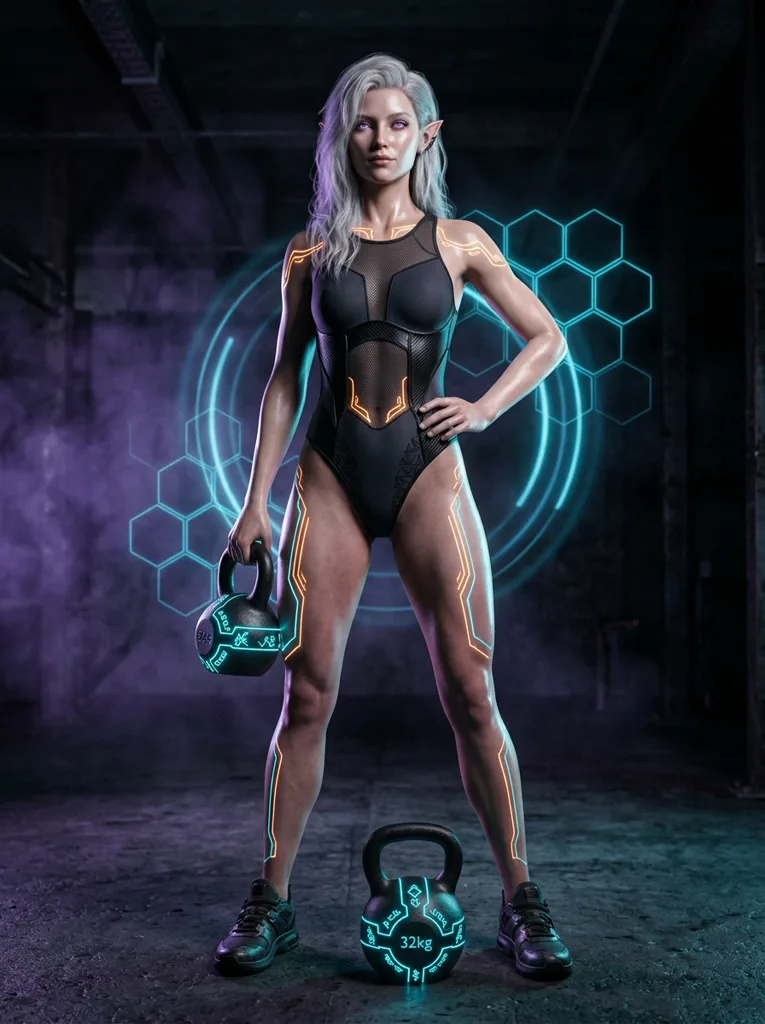
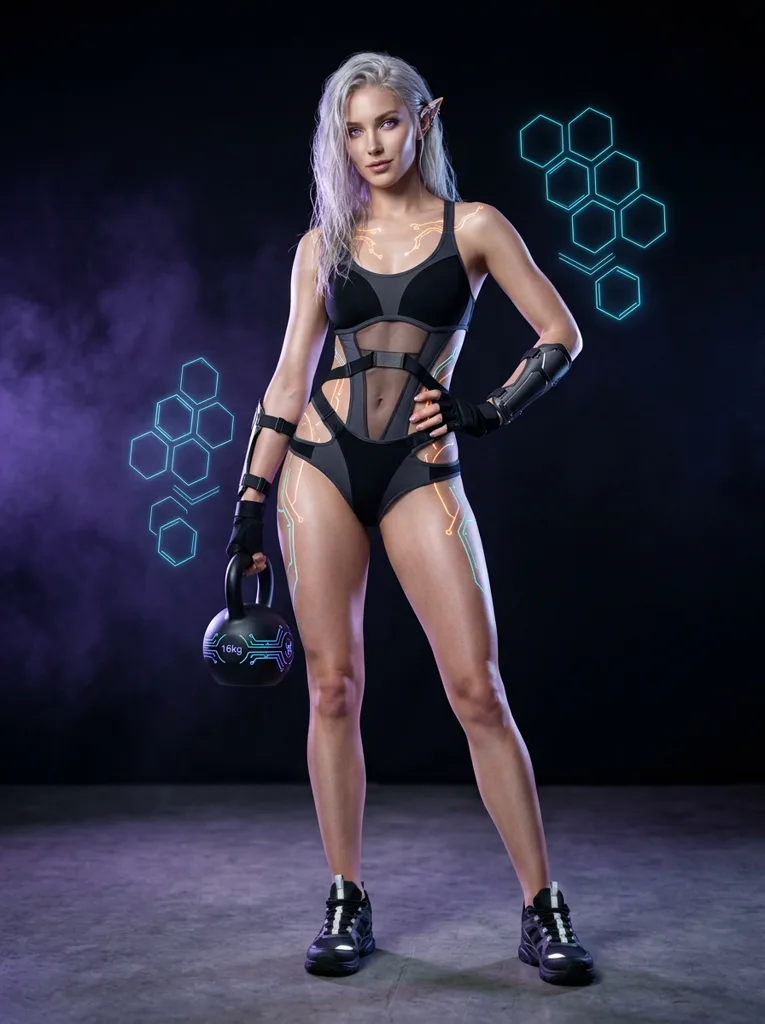
fix(trainers): use architectural cutout portrait for Lyra Vael
- Switch assets/trainers/elf-mage.webp to lyra_fullbody_cutout render
- Update docs/trainers/index.md and docs/trainers/lyra.md to feature the cutout render as Plate 01 primary portrait

diff --git a/docs/trainers/lyra.md b/docs/trainers/lyra.md
@@ -31,17 +31,27 @@ Lyra channels mana through structural alignment, deep joint decompression, slow-
 
 > 🔍 _Click any editorial plate or exercise frame below to inspect the full uncompressed render._
 
-### Plate 01: Primary Editorial Portrait
+### Plate 01: Architectural Cutout Stance (Primary Editorial Portrait)
 
-[![Lyra Fullbody Portrait](/trainers/lyra-fullbody-portrait.jpg)](/trainers/lyra-fullbody-portrait.jpg)
+[![Lyra Fullbody Cutout](/trainers/lyra-fullbody-cutout.jpg)](/trainers/lyra-fullbody-cutout.jpg)
 
 - **Lens Spec**: 50mm f/1.8 · Volumetric Cyan & Violet Rim Lighting
+- **Canvas**: 3:4 Vertical Studio Portrait
+- **Description**: Sculpted athletic form in architectural cutouts and matte carbon-fiber bodysuit, traced with amber and cyan arcane circuitry beside a mana-inlaid kettlebell.
+
+---
+
+### Plate 02: Full-Mesh Obsidian Stance (Archive Mesh Variant)
+
+[![Lyra Fullbody Mesh](/trainers/lyra-fullbody-portrait.jpg)](/trainers/lyra-fullbody-portrait.jpg)
+
+- **Lens Spec**: 50mm f/1.8 · Volumetric Cyan & Violet Rim
 - **Canvas**: 3:4 Vertical Studio Portrait
 - **Description**: Full-coverage translucent micro-mesh and carbon-fiber study paired with dual 32kg cyan mana-circuit kettlebells.
 
 ---
 
-### Plate 02: Architectural Cutout Stance
+### Plate 03: Cyber-Dojo Wide Cutout Stance
 
 [![Lyra Cutout Stance](/trainers/lyra-stance-cutout.jpg)](/trainers/lyra-stance-cutout.jpg)
 
@@ -50,7 +60,7 @@ Lyra channels mana through structural alignment, deep joint decompression, slow-
 
 ---
 
-### Plate 03: Visage & Chrome Cyber-Cuffs Study
+### Plate 04: Visage & Chrome Cyber-Cuffs Study
 
 [![Lyra Visage Study](/trainers/lyra-closeup-visage.jpg)](/trainers/lyra-closeup-visage.jpg)
 
@@ -59,7 +69,7 @@ Lyra channels mana through structural alignment, deep joint decompression, slow-
 
 ---
 
-### Plate 04: Arcane Kettlebell Conduit Detail
+### Plate 05: Arcane Kettlebell Conduit Detail
 
 [![Lyra Kettlebell Detail](/trainers/lyra-kettlebell-detail.jpg)](/trainers/lyra-kettlebell-detail.jpg)
 

diff --git a/docs/trainers/index.md b/docs/trainers/index.md
@@ -23,8 +23,8 @@
 <div style="display: grid; grid-template-columns: repeat(auto-fit, minmax(240px, 1fr)); gap: 1.5rem; margin: 2rem 0;">
 
 <div style="border: 1px solid #00f0ff44; padding: 1rem; border-radius: 8px; background: #14101c;">
-  <a href="/trainers/lyra-fullbody-portrait.jpg" target="_blank" title="Click to view full-resolution render">
-    <img src="/trainers/lyra-fullbody-portrait.jpg" alt="Lyra Aether Vael" style="border-radius: 6px; width: 100%; height: 380px; object-fit: contain; background: #0c0914; padding: 4px;" />
+  <a href="/trainers/lyra-fullbody-cutout.jpg" target="_blank" title="Click to view full-resolution render">
+    <img src="/trainers/lyra-fullbody-cutout.jpg" alt="Lyra Aether Vael" style="border-radius: 6px; width: 100%; height: 380px; object-fit: contain; background: #0c0914; padding: 4px;" />
   </a>
   <h4 style="color: #00f0ff; margin: 0.75rem 0 0.25rem 0;">01 // LYRA "AETHER" VAEL</h4>
   <p style="font-size: 0.85rem; color: #888; margin: 0 0 0.75rem 0;">High-Elf Combat Mage · Flow & Mobility</p>
